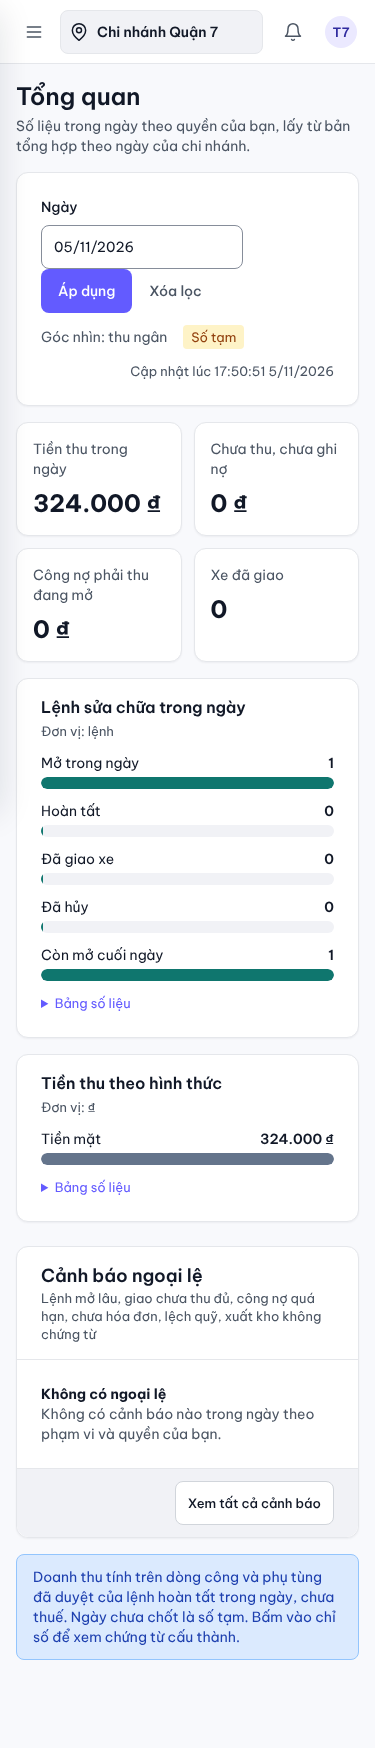
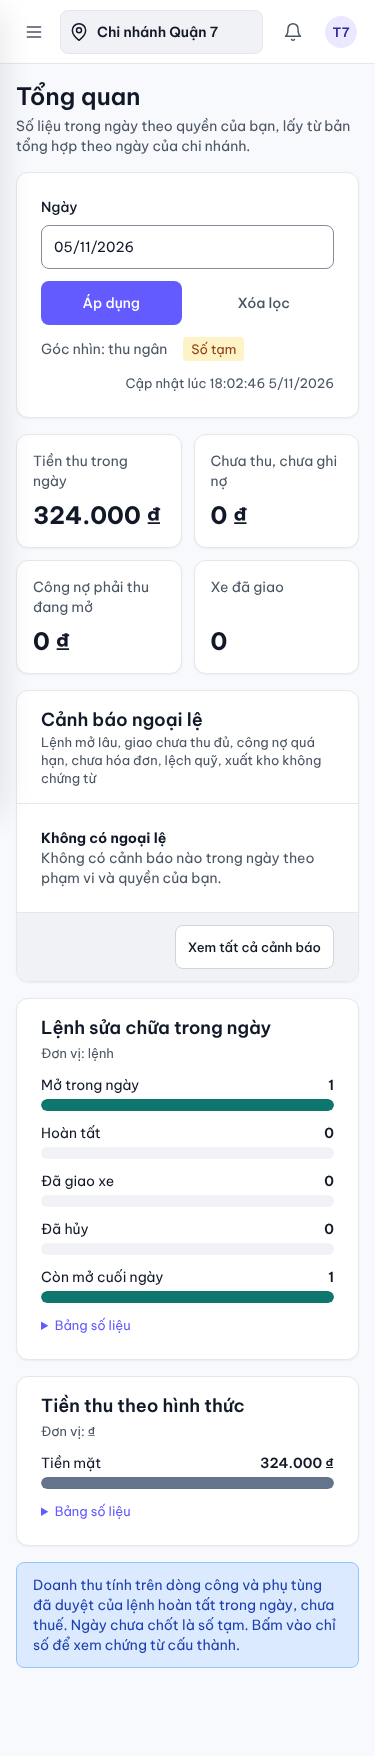
fix(ui): dashboard layout (filter row, KPI grid, empty column, zero bars, phone chart labels)
Claude-Session: https://claude.ai/code/session_01EqYbDeaMCz4Stmq5jqEEUb

diff --git a/src/app/(shell)/DashboardHome.tsx b/src/app/(shell)/DashboardHome.tsx
@@ -99,112 +99,119 @@ export async function DashboardHome(props: {
       ) : (
         <>
           {m.kpis.length > 0 ? (
-            <section className="dsh-kpis" aria-label={t('kpis')} data-testid="home-kpis">
+            <section
+              className="dsh-kpis"
+              aria-label={t('kpis')}
+              data-count={m.kpis.length}
+              data-testid="home-kpis"
+            >
               {m.kpis.map((k) => (
                 <KpiCard key={k.id} k={k} label={label} fmt={{ t, tr }} />
               ))}
             </section>
           ) : null}
-          <div className="dsh-cols">
-            <div className="dsh-stack">
-              {m.trend ? (
-                <ColumnChart
-                  id="trend"
-                  testId="chart-trend"
-                  title={t('trendTitle')}
-                  unit={t('trendUnit')}
-                  points={m.trend.map((p) => ({
-                    label: shortDay(p.date),
-                    value: p.value,
-                    provisional: p.provisional,
-                  }))}
-                  format={money}
-                  axisFormat={compactVnd}
-                  emptyTop={4_000_000}
-                  provisionalNote={t('provisional')}
-                  noDataLabel={t('noData')}
-                  tableLabel={t('chartTable')}
-                  catName={t('catDay')}
-                  valueName={t('trendValue')}
-                  foot={t('trendFoot')}
-                />
-              ) : null}
-              {m.branchBars ? (
-                <BarList
-                  id="branches"
-                  testId="chart-branches"
-                  title={t('branchTitle')}
-                  unit={t('branchUnit')}
-                  sub={t('scopeMany', { n: m.branchBars.length })}
-                  items={m.branchBars.map((b) => ({ label: b.name, value: b.value }))}
-                  format={money}
-                  tableLabel={t('chartTable')}
-                  catName={t('catBranch')}
-                  valueName={t('branchValue')}
-                  foot={
-                    missingBranches > 0
-                      ? `${t('branchFoot')} ${t('branchMissing', { n: missingBranches })}.`
-                      : t('branchFoot')
-                  }
-                />
-              ) : null}
-              <div className="rpt-two">
-                {m.orderBars ? (
-                  <BarList
-                    id="orders"
-                    testId="chart-orders"
-                    title={t('ordersTitle')}
-                    unit={t('ordersUnit')}
-                    items={m.orderBars.map((o) => ({
-                      label: t(`o_${o.key}` as never),
-                      value: o.value,
-                    }))}
-                    format={(v) => String(v)}
-                    tableLabel={t('chartTable')}
-                    catName={t('catKind')}
-                    valueName={t('ordersValue')}
-                    series={2}
-                  />
-                ) : null}
-                {m.revenueSplit ? (
-                  <BarList
-                    id="split"
-                    testId="chart-split"
-                    title={t('splitTitle')}
-                    unit={t('splitUnit')}
-                    items={m.revenueSplit.map((o) => ({
-                      label: t(`split_${o.key}` as never),
-                      value: o.value,
+          <div className={`dsh-cols${m.trend || m.branchBars ? '' : ' dsh-cols--solo'}`}>
+            {m.trend || m.branchBars ? (
+              <div className="dsh-stack">
+                {m.trend ? (
+                  <ColumnChart
+                    id="trend"
+                    testId="chart-trend"
+                    title={t('trendTitle')}
+                    unit={t('trendUnit')}
+                    points={m.trend.map((p) => ({
+                      label: shortDay(p.date),
+                      value: p.value,
+                      provisional: p.provisional,
                     }))}
                     format={money}
+                    axisFormat={compactVnd}
+                    emptyTop={4_000_000}
+                    provisionalNote={t('provisional')}
+                    noDataLabel={t('noData')}
                     tableLabel={t('chartTable')}
-                    catName={t('catKind')}
-                    valueName={t('splitValue')}
-                    series={3}
+                    catName={t('catDay')}
+                    valueName={t('trendValue')}
+                    foot={t('trendFoot')}
                   />
                 ) : null}
-                {m.methodBars ? (
+                {m.branchBars ? (
                   <BarList
-                    id="methods"
-                    testId="chart-methods"
-                    title={t('methodTitle')}
-                    unit={t('methodUnit')}
-                    items={m.methodBars.map((o) => ({
-                      label: methodLabel(t, o.key),
-                      value: o.value,
-                    }))}
+                    id="branches"
+                    testId="chart-branches"
+                    title={t('branchTitle')}
+                    unit={t('branchUnit')}
+                    sub={t('scopeMany', { n: m.branchBars.length })}
+                    items={m.branchBars.map((b) => ({ label: b.name, value: b.value }))}
                     format={money}
                     tableLabel={t('chartTable')}
-                    catName={t('catKind')}
-                    valueName={t('methodValue')}
-                    series={4}
+                    catName={t('catBranch')}
+                    valueName={t('branchValue')}
+                    foot={
+                      missingBranches > 0
+                        ? `${t('branchFoot')} ${t('branchMissing', { n: missingBranches })}.`
+                        : t('branchFoot')
+                    }
                   />
                 ) : null}
               </div>
-            </div>
+            ) : null}
             <div className="dsh-stack">
               <AlertCard d={d} t={t} tr={tr} />
             </div>
+          </div>
+          <div className="rpt-two">
+            {m.orderBars ? (
+              <BarList
+                id="orders"
+                testId="chart-orders"
+                title={t('ordersTitle')}
+                unit={t('ordersUnit')}
+                items={m.orderBars.map((o) => ({
+                  label: t(`o_${o.key}` as never),
+                  value: o.value,
+                }))}
+                format={(v) => String(v)}
+                tableLabel={t('chartTable')}
+                catName={t('catKind')}
+                valueName={t('ordersValue')}
+                series={2}
+              />
+            ) : null}
+            {m.revenueSplit ? (
+              <BarList
+                id="split"
+                testId="chart-split"
+                title={t('splitTitle')}
+                unit={t('splitUnit')}
+                items={m.revenueSplit.map((o) => ({
+                  label: t(`split_${o.key}` as never),
+                  value: o.value,
+                }))}
+                format={money}
+                tableLabel={t('chartTable')}
+                catName={t('catKind')}
+                valueName={t('splitValue')}
+                series={3}
+              />
+            ) : null}
+            {m.methodBars ? (
+              <BarList
+                id="methods"
+                testId="chart-methods"
+                title={t('methodTitle')}
+                unit={t('methodUnit')}
+                items={m.methodBars.map((o) => ({
+                  label: methodLabel(t, o.key),
+                  value: o.value,
+                }))}
+                format={money}
+                tableLabel={t('chartTable')}
+                catName={t('catKind')}
+                valueName={t('methodValue')}
+                series={4}
+              />
+            ) : null}
           </div>
         </>
       )}

diff --git a/src/app/styles/dashboard.css b/src/app/styles/dashboard.css
@@ -26,11 +26,28 @@
   .dsh-cols {
     grid-template-columns: minmax(0, 1fr);
   }
+  /* alerts are what a manager acts on: right after the KPI cards, before the charts */
+  .dsh-cols > .dsh-stack:last-child {
+    order: -1;
+  }
+}
+.dsh-cols--solo {
+  grid-template-columns: minmax(0, 1fr);
 }
 .dsh-kpis {
   display: grid;
   grid-template-columns: repeat(auto-fit, minmax(220px, 1fr));
   gap: var(--space-4);
+}
+/* equal-height label block so the values of one row start on the same line */
+.dsh-kpis .kpi__label {
+  min-height: 40px;
+  align-items: flex-start;
+}
+@media (min-width: 640px) {
+  .dsh-kpis[data-count='6'] {
+    grid-template-columns: repeat(3, minmax(0, 1fr));
+  }
 }
 @media (max-width: 639px) {
   .dsh-kpis {
@@ -102,8 +119,8 @@ a.dsh-row:hover {
   margin: 0;
 }
 .dsh-chart__title {
-  font-size: var(--font-size-lg);
-  line-height: 24px;
+  font-size: 1.125rem;
+  line-height: 26px;
   font-weight: 600;
   margin: 0;
 }
@@ -239,6 +256,10 @@ a.dsh-row:hover {
   border-radius: var(--radius-sm) var(--radius-sm) 0 0;
   min-height: 2px;
 }
+.dsh-cols-chart__bar.is-zero {
+  min-height: 0;
+  border: 0;
+}
 .dsh-cols-chart__bar.is-prov {
   background: var(--color-surface);
   border: 2px dashed var(--chart-series-1);
@@ -276,6 +297,10 @@ a.dsh-row:hover {
   .dsh-cols-chart__lbl {
     font-size: 11px;
   }
+  /* 7 labels of 30 px do not fit in 343 px: show every other day (the data table has all of them) */
+  .dsh-cols-chart__bars li:nth-child(even) .dsh-cols-chart__lbl {
+    visibility: hidden;
+  }
 }
 
 .dsh-bars {
@@ -308,7 +333,6 @@ a.dsh-row:hover {
   display: block;
   height: 100%;
   border-radius: var(--radius-sm);
-  min-width: 2px;
 }
 .dsh-bars__value {
   font-size: var(--font-size-md);

diff --git a/src/app/styles/components.css b/src/app/styles/components.css
@@ -289,6 +289,9 @@ th[aria-sort="ascending"] .th-sort .icon, th[aria-sort="descending"] .th-sort .i
 .filter-bar { display: flex; flex-wrap: wrap; align-items: flex-end; gap: var(--space-3); padding: var(--space-4); background: var(--color-surface); border: 1px solid var(--color-border); border-radius: var(--card-radius); }
 .filter-bar .field { min-width: 160px; }
 .filter-bar__search { flex: 1 1 280px; }
+.filter-bar__row { display: flex; flex-wrap: wrap; align-items: flex-end; gap: var(--space-3); min-width: 0; }
+.filter-bar__row .field { min-width: 160px; }
+@media (max-width: 639px) { .filter-bar__row .field { flex: 1 1 100%; } .filter-bar__row .btn { flex: 1 1 0; } }
 .filter-bar__actions { margin-left: auto; display: flex; gap: var(--space-2); }
 .chip-row { display: flex; flex-wrap: wrap; align-items: center; gap: var(--space-2); margin-top: var(--space-3); }
 .chip { display: inline-flex; align-items: center; gap: 4px; min-height: 32px; padding: 0 4px 0 12px; border-radius: var(--radius-full); background: var(--color-primary-subtle); color: var(--color-brand-800); border: 1px solid var(--color-brand-200); font-size: var(--font-size-sm); font-weight: 500; }

diff --git a/src/ui/components/Charts.tsx b/src/ui/components/Charts.tsx
@@ -155,7 +155,7 @@ export function ColumnChart(props: {
                     <>
                       <span className="dsh-cols-chart__val">{props.format(p.value)}</span>
                       <span
-                        className={`dsh-cols-chart__bar${p.provisional ? ' is-prov' : ''}`}
+                        className={`dsh-cols-chart__bar${p.provisional ? ' is-prov' : ''}${p.value === 0 ? ' is-zero' : ''}`}
                         style={{ height: `${pctOfAxis(p.value, top)}%` }}
                       />
                     </>
@@ -217,7 +217,7 @@ export function BarList(props: {
             <span className="dsh-bars__track" aria-hidden="true">
               <span
                 className={`dsh-bars__bar dsh-s${series}`}
-                style={{ width: `${pctOfAxis(i.value, max)}%` }}
+                style={{ width: `${pctOfAxis(i.value, max)}%`, minWidth: i.value > 0 ? 2 : 0 }}
               />
             </span>
             <span className="dsh-bars__value">{props.format(i.value)}</span>
